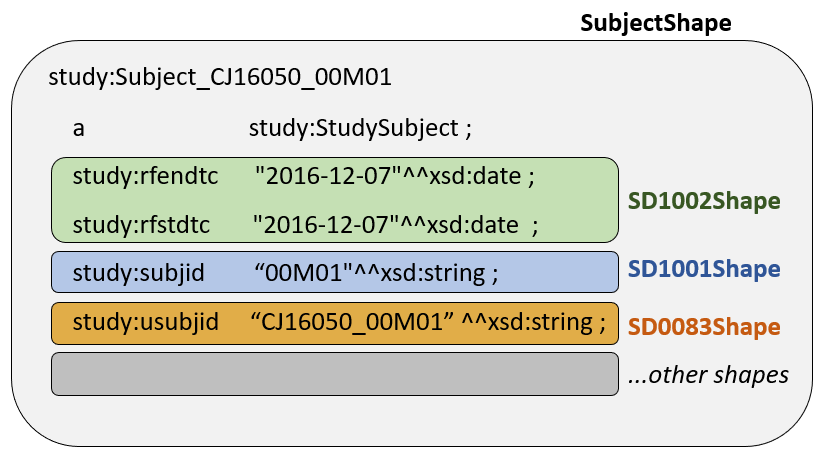
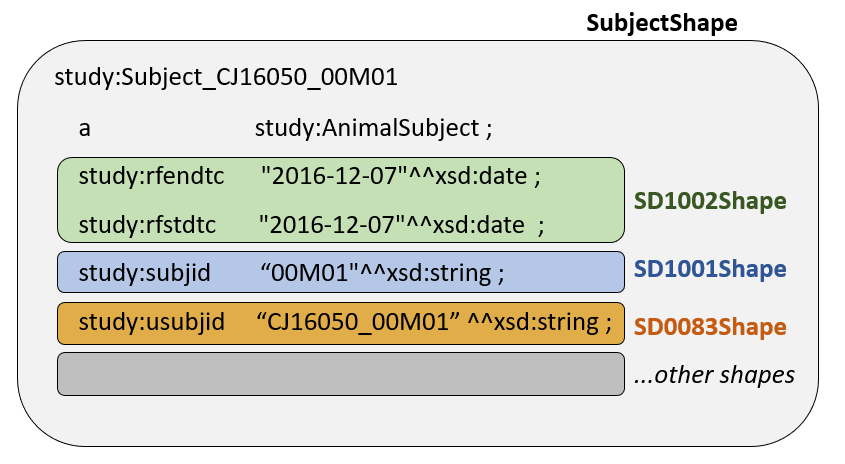
updates to doc and structure of constraints

diff --git a/doc/SHACL-SENDRuleEg.md b/doc/SHACL-SENDRuleEg.md
@@ -1,6 +1,9 @@
 # Modeling a SEND Rule in SHACL
 # A Step-by-Step Example
 
+### 0. Background
+The goal of this page is to provide a full, simple, working example of how to model a SEND rule using SHACL. The simplistic data structure does not match the schema used in the main SENDConform project, which is more complex. This work will be documented elsewhere. 
+
 ### 1. Data Structure and Implications for Constraints
 
 **1.1 Example Data**
@@ -12,39 +15,48 @@ The R file adds the following test data to trip validation rules:
 **Test-1 : Start date after end date**
 
     cj16050:Subject_TEST-1
-        a study:StudySubject ;
+        a study:AnimalSubject ;
         study:rfendtc "2016-12-08"^^xsd:date ;
         study:rfstdtc "2016-12-09"^^xsd:date .
 
 **Test-2: End date is a string, not a date/dateTime**
 
     cj16050:Subject_TEST-2
-        a study:StudySubject ;
+        a study:AnimalSubject ;
         study:rfendtc "2019-01-30"^^xsd:string ;
         study:rfstdtc "2019-01-29"^^xsd:date .
 
-**Test-2: Duplicate data**
+**Test-3: Duplicate data**
 
-*Details to be added*
+    cj16050:Subject_TEST-3
+        a study:AnimalSubject ;
+        study:rfendtc "2019-02-02"^^xsd:string ;
+        study:rfstdtc "2019-02-03"^^xsd:date .
+
+    cj16050:Subject_TEST-3
+        a study:AnimalSubject ;
+        study:rfendtc "2019-02-12"^^xsd:string ;
+        study:rfstdtc "2019-02-13"^^xsd:date .
 
 The data file for this example is available here: [SHACL\Examples\CJ16050-DM-SD1002-TestData.TTL](https://github.com/phuse-org/SENDConform/blob/master/SHACL/Examples/CJ16050-DM-SD1002-TestData.TTL)
 
 
 **1.2 Data Structure and Implications for Shape Constraints**
 
-Representation of SEND data as RDF is built around the concept of associating values with a Study Subject. For the DM domain used in this example, there is one row per Study Subject and the triples for Subject CJ16050_00M01 are:
+Representation of SEND data as RDF is built around the concept of associating values with a Animal Subject. For the DM domain used in this example, there is one row per Animal Subject and the triples for Subject CJ16050_00M01 are:
 
     study:Subject_CJ16050_00M01
-        a              study:StudySubject ;
+        a              study:AnimalSubject ;
         study:rfendtc  "2016-12-07"^^xsd:date ;
         study:rfstdtc  "2016-12-07"^^xsd:date  ;
         study:subjid   "00M01"^^xsd:string ;
         study:usubjid  "CJ16050_00M01" ^^xsd:string ;
       .... more data...
 
-For validation purposes, an outer "SubjectShape" will be constructed that contains additional shape definitions for the various constraints that apply to the data within the Study Subject. You can visualize this outer shape as a shell (SubjectShape) in the diagram below that encapsulate the other shapes within it (SD1002Shape, SD1001Shape, etc.)
+For validation purposes, an outer "SubjectShape" is constructed that contains additional shape definitions for the various constraints that apply to the data within the Animal Subject. You can visualize this outer shape as a shell (SubjectShape) in Figure 1 that encapsulate the other shapes within it (SD1002Shape, SD1001Shape, etc.)
 
-<img src="images/ShapeLayers.png" width=600/>
+<img src='images/ShapeLayers.png' width=600>
+
 |:--:| 
 | *Figure 1. Shapes* |
 
@@ -63,112 +75,81 @@ The rule:
 
 Can be described as: 
 
-1.1 Subject Reference Start Date/Time (RFSTDTC) must be in date format  (xsd:date or xsd:dateTime)
+2.1 Subject Reference Start Date/Time (RFSTDTC) must be in date format  (xsd:date or xsd:dateTime)
 
-1.2 Subject Reference End Date/Time (RFENDTC) must be in date format  (xsd:date or xsd:dateTime)
+2.2 Subject Reference End Date/Time (RFENDTC) must be in date format  (xsd:date or xsd:dateTime)
 
-1.3 Start Date/Time (RFSTDTC) must be less than or equal to End Date/Time. (RFENDTC)
+2.3 Start Date/Time (RFSTDTC) must be less than or equal to End Date/Time. (RFENDTC)
 
-1.4 There is also the implicit rule that each Study Subject should only have one RFSTDTC and one RFENDTC date. 
+2.4 The implicit rule that each Animal Subject should only have one RFSTDTC and one RFENDTC date. 
 
 * If the End date (RFENDTC) is later than the Start Date (RFSTDTC), the system must supply the error message **"RFSTDTC is after RFENDTC"**. 
 
+### 3. Define the Constraints
 
-### 2. Define the rule in SHACL
-You must first define the NodeShape and Class to which the rule will apply, then add the specific rules.
-
-2.1 Define a NodeShape
-
-x.x Rules and data
-
-
+3.1 SubjectShape
+The SubjectShape is defined first, and then the additional shapes encapsulated within it. 
 
 Create a .TTL file that begins with the prefixes that will be referenced in the rules. In this example, we use the `study:` prefix as a namespace for general information about studies and the `sh:` prefix is used for SHACL. 
 
-Below the prefixes, define the NodeShape Object for the timing constraint. We name the Object using the FDA Validator Rule ID to facilitate reference back to the original source:
+Below the prefixes, define the SubjectShape NodeShape Object and the node that references that  SD1002Shape for the timing constraint. For brevity, this example we will not code the SD1001Shape and SD0083 shapes shown in Figure 1. 
 
     @prefix study: <https://w3id.org/phuse/study#> .
     @prefix sh:   <http://www.w3.org/ns/shacl#> .
     
-    study:SD1002 rdf:type sh:NodeShape ;
+    study:SubjectShape a sh:Shape;
+      sh:targetClass study:AnimalSubject;
+      sh:node        study:SD1002Shape .
+
+`sh:targetClass` specifies that the constraints will be applied to all members of the AnimalSubject class.
 
 
-2.2. Assign the shape to a target class
-
-Within the NodeShape, specify the class to which the constraints will apply. 
-In our data, the RFSTDTC and RFENDTC values are associated with the class `study:StudySubject` with data that looks like: 
-
-    cj16050:Subject_CJ16050_00M01
-      a             study:StudySubject ;
-      study:rfendtc "2016-12-07"^^xsd:date ;
-      study:rfstdtc "2016-12-07"^^xsd:date .
-
-Assign the constraints to a class using `sh:targetClass` so your file now looks like:
-
-    @prefix study: <https://w3id.org/phuse/study#> .
-    @prefix sh:   <http://www.w3.org/ns/shacl#> .
-    
-    study:SD1002 rdf:type       sh:NodeShape ;
-                 sh:targetClass study:StudySubject ;
-
-2.3 Define Constraints
+**3.3 SD1002Shape**
 
 Revisit Section 1. and define constraints for each component. 
 
+**3.3.1 Constraint: Date Format and Count (RFSTDTC and RFENDTC)** 
+Constraints for both `study:rfstdtc` and `study:rfendtc`can be applied using `sh:or` and a second `sh:or` to test if their values are xsd:date or xsd:dateTime, since both are acceptable.
+The additional statments `sh:minCount 1` and `sh:maxCount 1` ensure that one (and only one) value of each date is present.
 
-2.3.1 Constraint: RFSTDTC is a Date  (Rule 1.1)
-
-Add a constraint corresponding to Section 1.1 where RFSTDTC must be in date format:
-
-Rule component 1.1 states that RFSTDTC must be in date or dateTime format. The property statement for this rule appears directly below the `sh:targetClass` statement in you file. `sh:name` and `sh:description` identify and describe the rule, which supports FDA rule SD1002 but is not the rule itself (see later). The value of RFSTDTC is always preceded by the predicate `study:rfstdtc`, so that predicate is the object of the `sh:path` predicate in the rule. 
-
-`sh:or` is used to check if the value is in date or dateTime format, and `sh:message` provides the message that will appear in the validation report when the constraint is violated.
-
-The following statements comprise the fomat check for RFSTDTC:
-
-    study:StartEndShape rdf:type sh:NodeShape ;
-      sh:targetClass study:StudySubject ;
+    study:SD1002Shape rdf:type sh:NodeShape ;
       sh:property [
-        sh:name "RFSTDTC format" ;
-        sh:description "RFSTDTC date format validation." ;
-        sh:path study:rfstdtc ;
-        sh:or (
-          [sh:datatype xsd:date ; ]
-          [sh:datatype xsd:dateTime ; ]
-        ) ;
-        sh:message "RFSTDTC is not in date or dateTime format."
-      ];
+      sh:name "Date format and count" ;
+      sh:description "Evaluate date format (xsd:date/ xsd:dateTime) and minCount, maxCount = 1 per AnimalSubject." ;
+      sh:or (
 
-
-2.3.2 Constraint: RFENDTC is a Date (Rule 1.2)
-
-Add a corresponding rule to check the format of RFENDTC.
-
-    sh:property [
-      sh:name "RFENDTC format" ;
-      sh:description "RFENDTC date format validation." ;
-      sh:path study:rfendtc ;
+        [sh:path study:rfendtc ;]
+        [sh:path study:rfstdtc; ]
+      ) ;  
       sh:or (
         [sh:datatype  xsd:date ; ]
         [sh:datatype  xsd:dateTime ; ]
       ) ;
-      sh:message "RFENDTC is not in date or dateTime format." ;
-    ] ; 
+      sh:minCount 1 ;
+      sh:maxcount 1 ;
+  ] ; 
+
+`sh:message` is not used in this case because the system messages are adequate to determine a data type error or a min/max count error.
 
 
-2.3.3 Constraint: RFSTDTC is Less Than or Equal to RFENDTC (Rule 1.3)
 
-Lastly, add the sequence rule for SD1002 where RFSTDTC must precede or equal RFENDTC. This condition is tested using `sh:lessThanOrEquals` . By convention for this project,  `sh:name` specifies the *FDA Validator Rule ID* the ID also appears in the `sh:description`, pre-pended to the text from the *FDA Validator RUle* field, and in `sh:message` with content from the *FDA Validator Message* field.
+3.3.2 Constraint: RFSTDTC is Less Than or Equal to RFENDTC (Rule 1.3)
 
-This is the end of the validation for SD1002, so the last statment ends with a period instead of a semicolon. 
+The SD1002Shape is completed by adding a `sh:lessThanOrEquals` constraint, as in:
+
 
     sh:property [
       sh:name "SD1002" ;
       sh:description "SD1002: Subject Reference Start Date/Time (RFSTDTC) must be less than or equal to Subject Reference End Date/Time (RFENDTC)" ;
       sh:path             study:rfstdtc ;
       sh:lessThanOrEquals study:rfendtc ;
-      sh:message "SD1002: RFSTDTC is after RFENDTC." 
-    ].
+      sh:message "RFSTDTC is after RFENDTC." 
+    ]
+    .
+
+By convention for this project,  `sh:name` specifies the *FDA Validator Rule ID* the ID also appears in the `sh:description`, pre-pended to the text from the *FDA Validator RUle* field, and in `sh:message` with content from the *FDA Validator Message* field.
+
+This is the end of the validation for SD1002, so the last statment ends with a period instead of a semicolon. 
 
 The complete SHACL file is located in [SHACL\Examples\SHACL_SD1002.TTL](https://github.com/phuse-org/SENDConform/blob/master/SHACL/Examples/SHACL_SD1002.TTL)
 
@@ -185,7 +166,6 @@ The complete SHACL file is located in [SHACL\Examples\SHACL_SD1002.TTL](https://
 1. Select the filed type as SHACL (lower right corner of Studio)
 1. From the ADD CONSTRAINT drop down (upper left), select the drop down button and choose Get Validation Report.
 1. Scroll through the report and find the two shacl#resultMessages for the two data errors. The report is easier to view from the command line exection so see the next section.
-
 
 
 4.1.3 b) Stardog via command line
@@ -228,5 +208,7 @@ Violation 2: RFSTDTC is after RFENDTC
       sh:sourceShape []
 
 
+Violation 3: Duplicate data
+*TO BE ADDED*
 
 [Back to TOC](TableOfContents.md)
